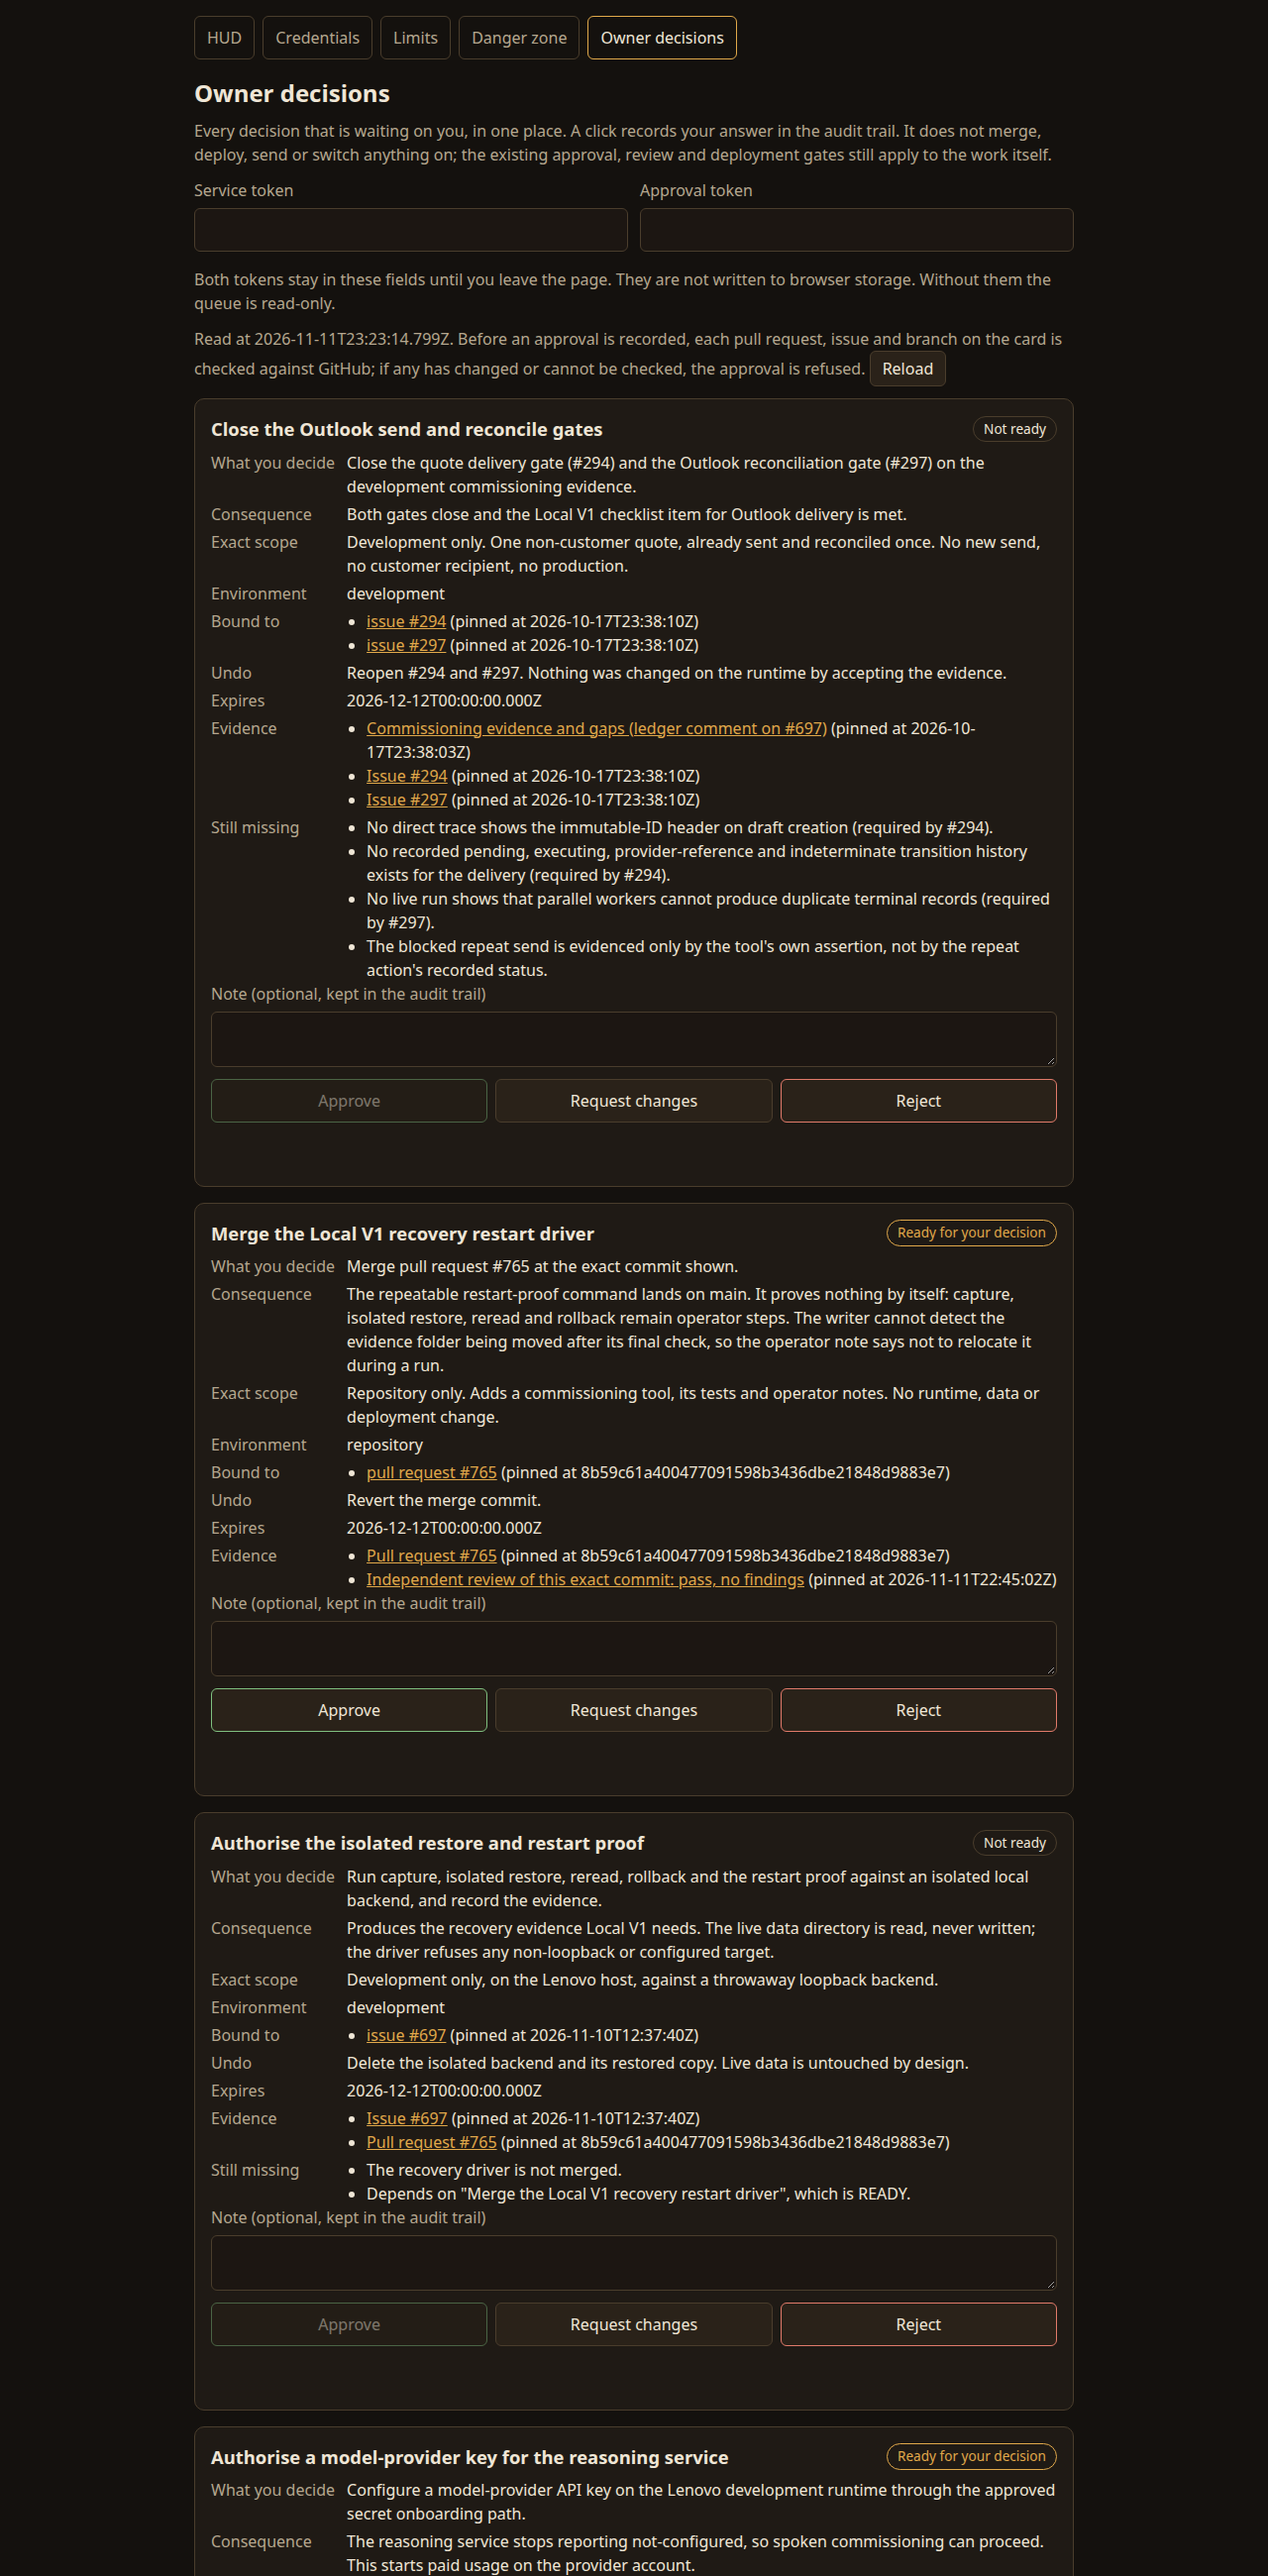
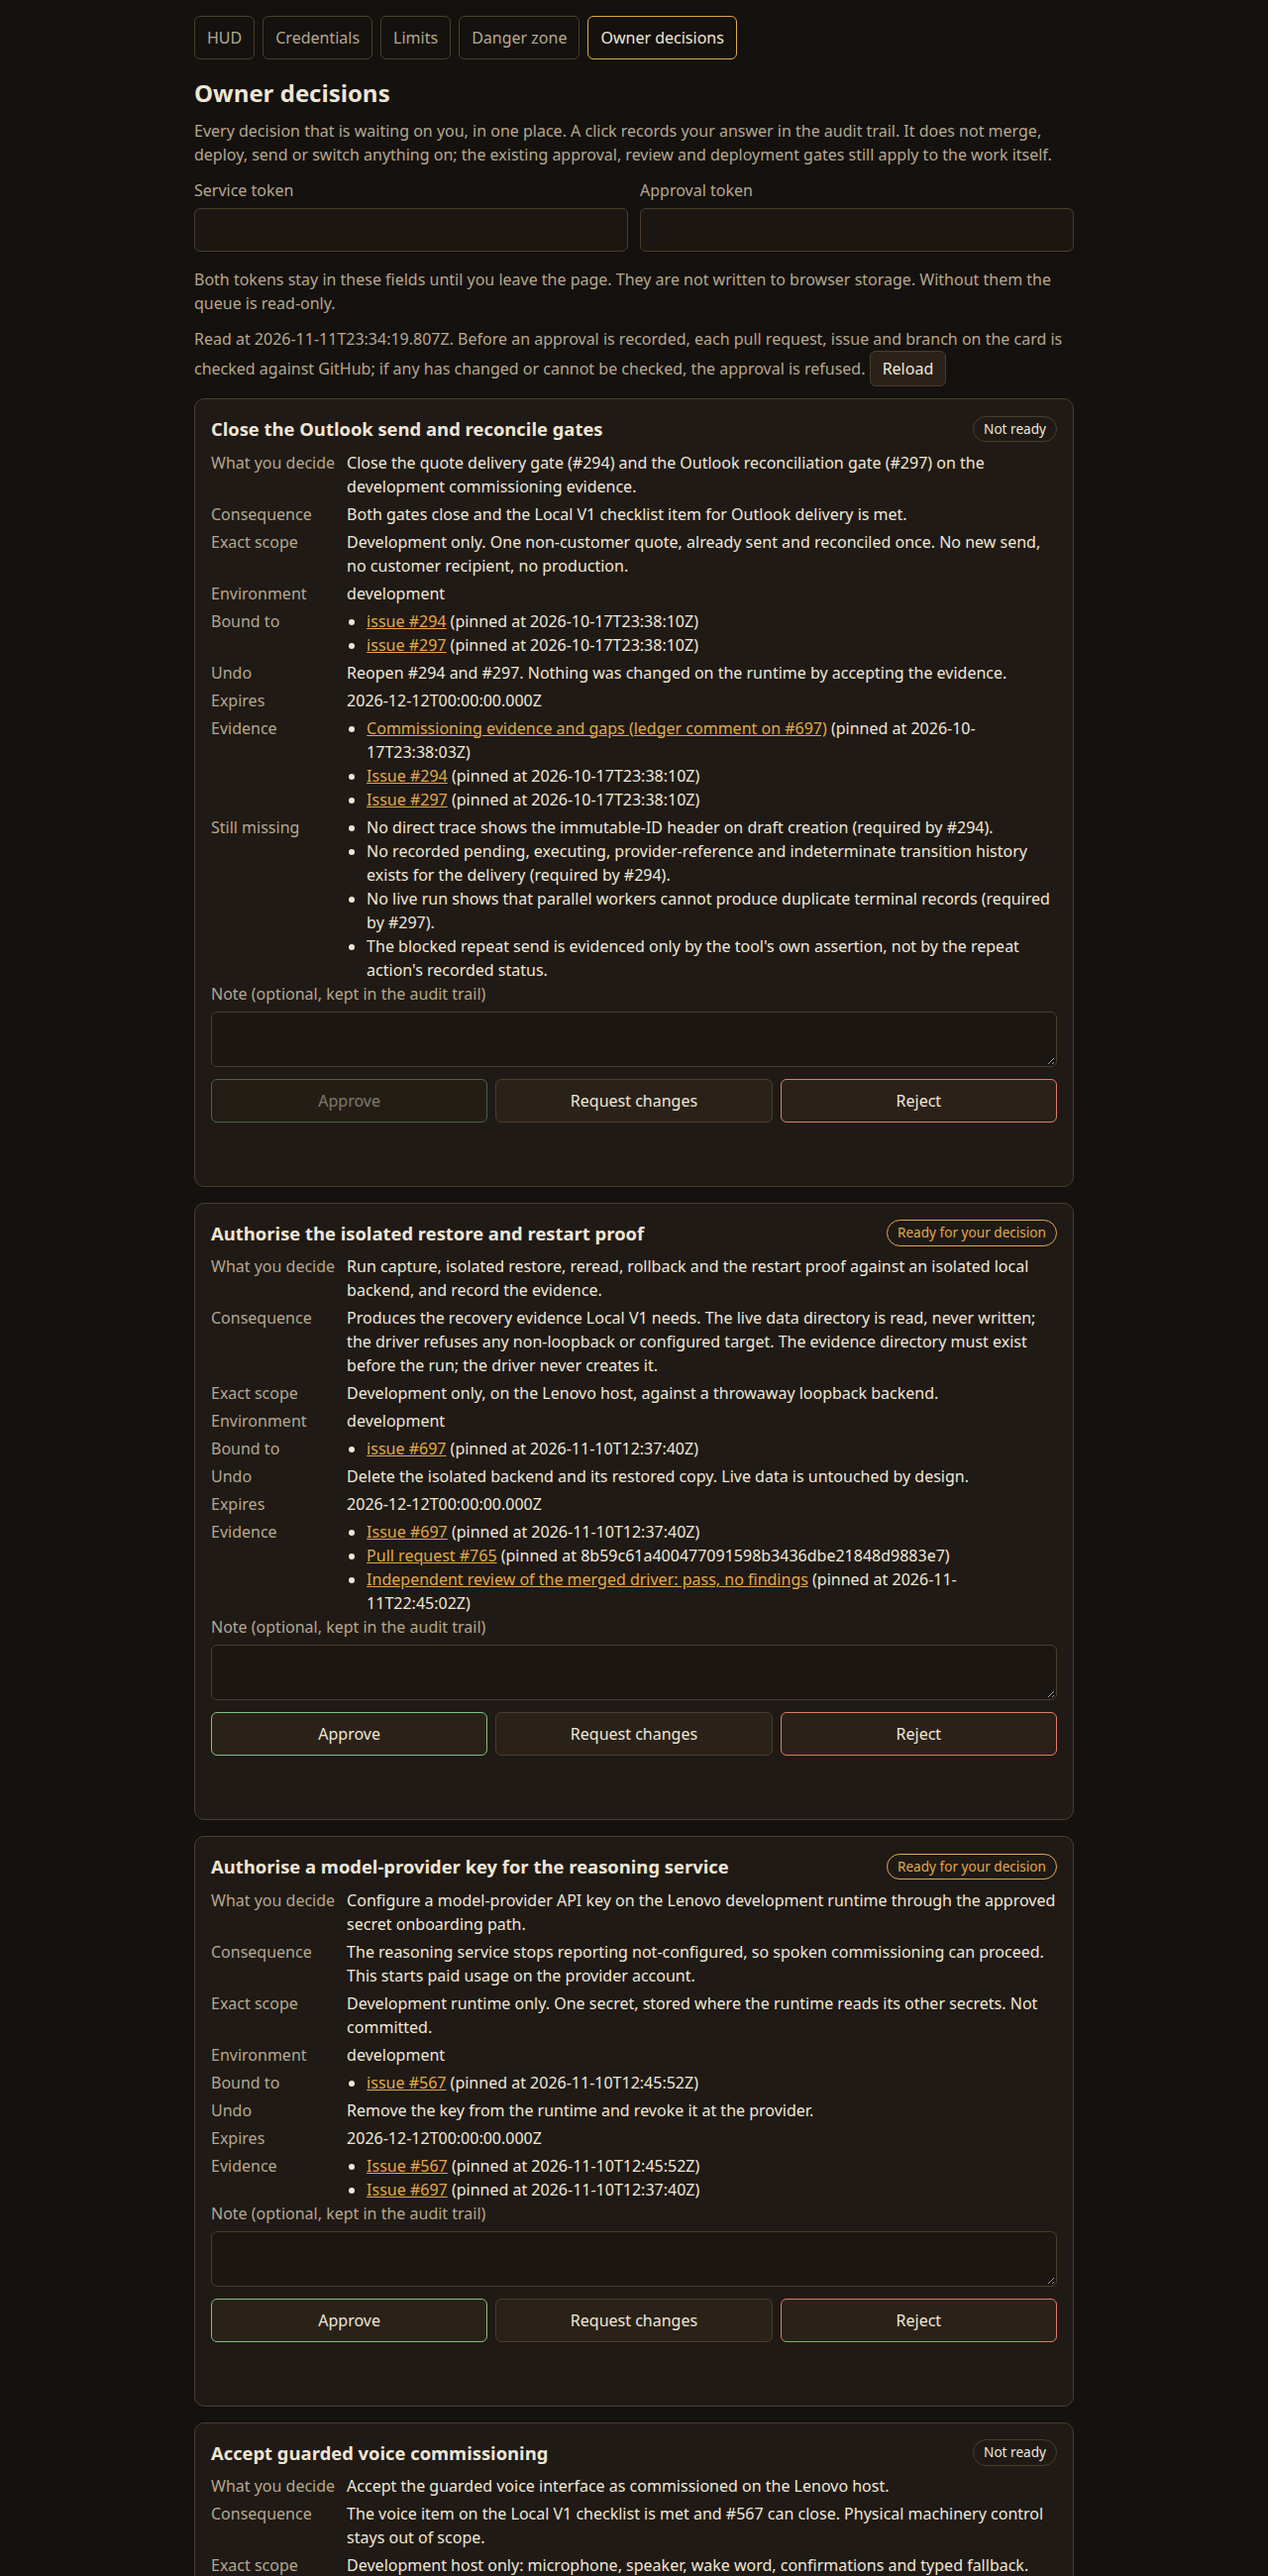
fix(owner-gate): verify the ledger at append, bind comments to their parent, tighten expiry and contract
Addresses the independent review of 5d22ef8a.

- append() verifies the reread chain and requires the new record to
  extend exactly that tail before moving the checkpoint, so a ledger
  altered during the live check is neither anchored nor appended to.
- A comment pin counts only when GitHub reports it on the pinned issue
  or pull request.
- After expiry only executed or failed is accepted for an unresolved
  execution; another indeterminate report is refused.
- OpenAPI states kind-specific pin fields, forbids a branch as evidence,
  and describes the interrupted-start exception.
- Manifest: #765 is merged, so its merge card is removed, the isolated
  proof card is unblocked, and the main pin is refreshed.

Refs #801

Claude-Session: https://claude.ai/code/session_01GMVJZ55UTn95Ko4n3NA2AU

diff --git a/typescript/tests/ownerDecision.test.ts b/typescript/tests/ownerDecision.test.ts
@@ -319,6 +319,8 @@ test("an execution left unresolved can still be resolved after the request expir
     const waiting = (await service.inspect()).cards[0]!;
     assert.equal(waiting.status, "EXPIRED");
     assert.equal(waiting.execution?.status, "indeterminate");
+    // Only a real outcome is accepted after expiry, not another "unknown".
+    await assert.rejects(() => report("indeterminate"), refusal("not-approved"));
     const resolved = await report(outcome);
     assert.equal(resolved.card.status, outcome === "executed" ? "EXECUTED" : "EXPIRED");
     assert.equal(resolved.card.execution?.status, outcome);
@@ -823,6 +825,35 @@ test("repeated interrupted appends never wedge a valid ledger", async () => {
       queue.cards.map((card) => card.status),
       ["APPROVED", "APPROVED"],
     );
+  } finally {
+    await fs.rm(world.root, { recursive: true, force: true });
+  }
+});
+
+test("a ledger altered while an approval is being checked is not anchored or appended to", async () => {
+  const world = await fileWorld();
+  try {
+    await world.open().startLedger();
+    const genesis = await fs.readFile(world.checkpoint, "utf8");
+    await world.decide("a");
+    // The valid one-record-ahead state an interrupted append leaves behind.
+    await fs.writeFile(world.checkpoint, genesis);
+    const before = await fs.readFile(world.file, "utf8");
+    const altered = before.replace('"decision":"approve"', '"decision":"reject"');
+    assert.notEqual(altered, before);
+    // The live check runs after the service verified the ledger and before
+    // the append. Change a recorded decision in that window.
+    const service = serviceOf(world.manifest, {
+      ledger: new JsonLinesOwnerDecisionLedger(world.file),
+      subjectProbe: async (subject) => {
+        await fs.writeFile(world.file, altered);
+        return subject.revision;
+      },
+    }).service;
+    await assert.rejects(() => world.decide("b", service), /integrity check; nothing was appended/);
+    assert.equal(await fs.readFile(world.file, "utf8"), altered, "nothing appended");
+    assert.equal(await fs.readFile(world.checkpoint, "utf8"), genesis, "checkpoint not moved");
+    assert.equal((await world.open().inspect()).ledgerState, "damaged");
   } finally {
     await fs.rm(world.root, { recursive: true, force: true });
   }

diff --git a/typescript/tests/ownerDecisionGitHubProbe.test.ts b/typescript/tests/ownerDecisionGitHubProbe.test.ts
@@ -31,7 +31,9 @@ test("the probe reads each kind of subject from its own read-only endpoint", asy
     [`${BASE}/pulls/7`]: { body: { head: { sha: "a".repeat(40) } } },
     [`${BASE}/issues/3`]: { body: { updated_at: "2026-11-01T00:00:00Z" } },
     [`${BASE}/branches/main`]: { body: { commit: { sha: "b".repeat(40) } } },
-    [`${BASE}/issues/comments/55`]: { body: { updated_at: "2026-11-02T00:00:00Z" } },
+    [`${BASE}/issues/comments/55`]: {
+      body: { updated_at: "2026-11-02T00:00:00Z", issue_url: `${BASE}/issues/3` },
+    },
   });
   const probe = createGitHubSubjectProbe({ repository: "example/repo", fetch: fetcher });
   assert.equal(await probe({ kind: "pull-request", number: 7, revision: "x" }), "a".repeat(40));
@@ -44,6 +46,28 @@ test("the probe reads each kind of subject from its own read-only endpoint", asy
   for (const call of calls) {
     assert.equal(call.headers.authorization, undefined);
     assert.equal(call.redirect, "error");
+  }
+});
+
+test("a comment only counts when it sits on the pinned issue or pull request", async () => {
+  const pin = { kind: "comment", id: 55, on: 1, revision: "2026-11-02T00:00:00Z" } as const;
+  for (const [issueUrl, expected] of [
+    [`${BASE}/issues/1`, pin.revision],
+    [`${BASE}/issues/999`, null],
+    ["https://api.github.com/repos/other/repo/issues/1", null],
+    [`${BASE}/issues/10`, null],
+    [undefined, null],
+  ] as const) {
+    const { fetcher } = fakeFetch({
+      [`${BASE}/issues/comments/55`]: {
+        body: {
+          updated_at: pin.revision,
+          ...(issueUrl === undefined ? {} : { issue_url: issueUrl }),
+        },
+      },
+    });
+    const probe = createGitHubSubjectProbe({ repository: "example/repo", fetch: fetcher });
+    assert.equal(await probe(pin), expected, String(issueUrl));
   }
 });
 

diff --git a/typescript/src/ownerGate/ownerDecisionService.ts b/typescript/src/ownerGate/ownerDecisionService.ts
@@ -231,7 +231,21 @@ export class JsonLinesOwnerDecisionLedger implements OwnerDecisionLedger {
     // one valid record ahead. Bring the checkpoint level first; otherwise a
     // second interruption would leave it two behind, which read() refuses.
     const existing = await this.read();
+    // The checkpoint must never be moved onto a chain that does not verify, and
+    // the new record must extend exactly the tail that was just verified. The
+    // file may have changed since the caller last read it.
+    try {
+      assertLedgerIntact(existing);
+    } catch {
+      throw damaged("The decision ledger failed its integrity check; nothing was appended.");
+    }
     const last = existing.at(-1);
+    if (
+      record.sequence !== existing.length + 1 ||
+      record.previousHash !== (last?.hash ?? LEDGER_GENESIS_HASH)
+    ) {
+      throw damaged("The decision ledger changed while a record was being prepared.");
+    }
     await this.writeCheckpoint(
       last === undefined
         ? { count: 0, hash: LEDGER_GENESIS_HASH }
@@ -649,7 +663,8 @@ export class OwnerDecisionService {
       const resolvesUnknown =
         card.status === "EXPIRED" &&
         card.decision?.choice === "approve" &&
-        card.execution?.status === "indeterminate";
+        card.execution?.status === "indeterminate" &&
+        report.status !== "indeterminate";
       if (card.status !== "APPROVED" && !resolvesUnknown) {
         throw new OwnerDecisionRefusal(
           "not-approved",

diff --git a/typescript/src/ownerGate/gitHubSubjectProbe.ts b/typescript/src/ownerGate/gitHubSubjectProbe.ts
@@ -19,8 +19,11 @@ function isRecord(value: unknown): value is Record<string, unknown> {
   return typeof value === "object" && value !== null && !Array.isArray(value);
 }
 
-function revisionFrom(subject: OwnerDecisionSubject, body: unknown): string | null {
+function revisionFrom(subject: OwnerDecisionSubject, body: unknown, base: string): string | null {
   if (!isRecord(body)) return null;
+  // A comment id alone says nothing about where the comment is. It only counts
+  // as the pinned proof if it sits on the pinned issue or pull request.
+  if (subject.kind === "comment" && body.issue_url !== `${base}/issues/${subject.on}`) return null;
   if (subject.kind === "issue" || subject.kind === "comment") {
     return typeof body.updated_at === "string" ? body.updated_at : null;
   }
@@ -53,7 +56,7 @@ export function createGitHubSubjectProbe(
         signal: AbortSignal.timeout(options.timeoutMs ?? 5000),
       });
       if (!response.ok) return null;
-      return revisionFrom(subject, (await response.json()) as unknown);
+      return revisionFrom(subject, (await response.json()) as unknown, base);
     } catch {
       return null;
     }

diff --git a/typescript/docs/operators/owner-decisions.md b/typescript/docs/operators/owner-decisions.md
@@ -78,7 +78,8 @@ showed:
 5. For an approval, every subject and every piece of evidence live against
    GitHub: the pull request head, the issue's or comment's last-updated time,
    the branch head. If any has changed the approval is refused; if any cannot
-   be checked (deleted evidence, GitHub unreachable, rate limited) the approval
+   be checked (deleted evidence, a comment that is not on the pinned issue or pull
+   request, GitHub unreachable, rate limited) the approval
    is also refused. Reject and Request changes do not need the live check.
 6. The idempotency key. A double click repeats the same key and returns the
    first record; nothing is written twice. A second, different decision on a
@@ -122,6 +123,11 @@ is what a crash between the append and the checkpoint write leaves behind. The
 next write brings the checkpoint level before appending, so repeated crashes
 cannot leave it further behind. An empty ledger file with no checkpoint is a
 start that was interrupted; "Start a new ledger" completes it.
+
+Before each append the ledger is read and verified again, and the new record
+must extend exactly that verified tail. If the file changed while a click was
+being checked, the click fails, nothing is appended and the checkpoint is not
+moved.
 
 ### Starting the ledger, and restoring a backup
 
